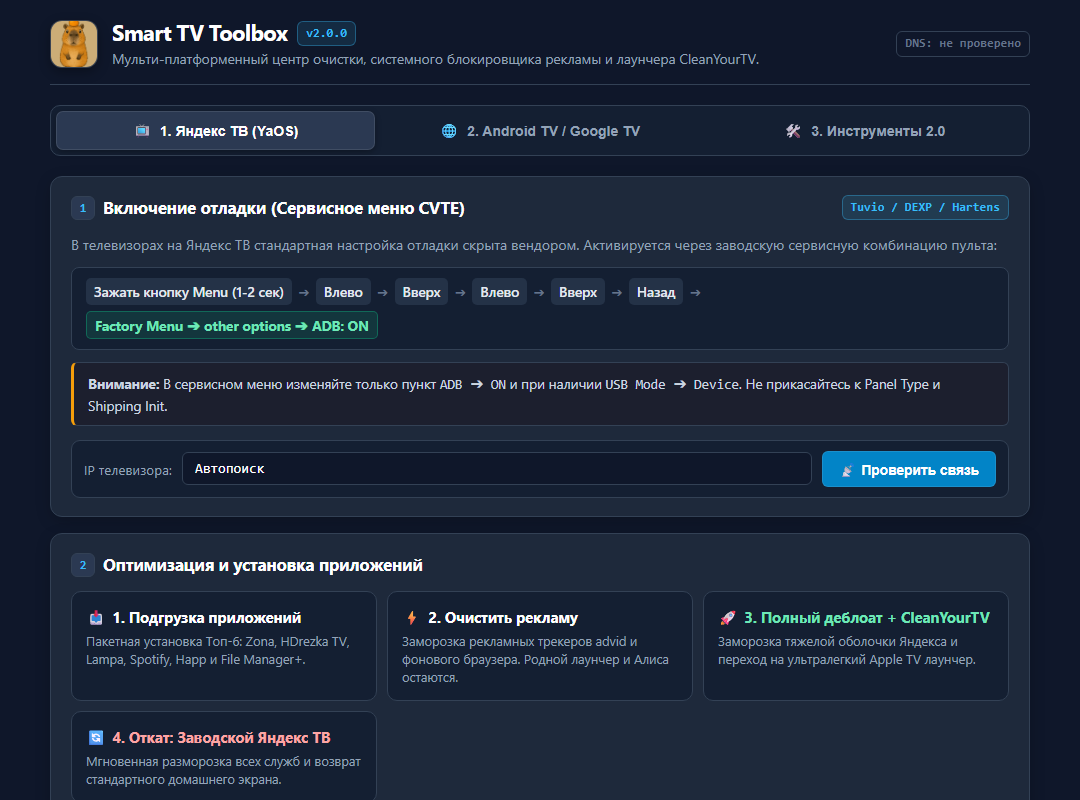
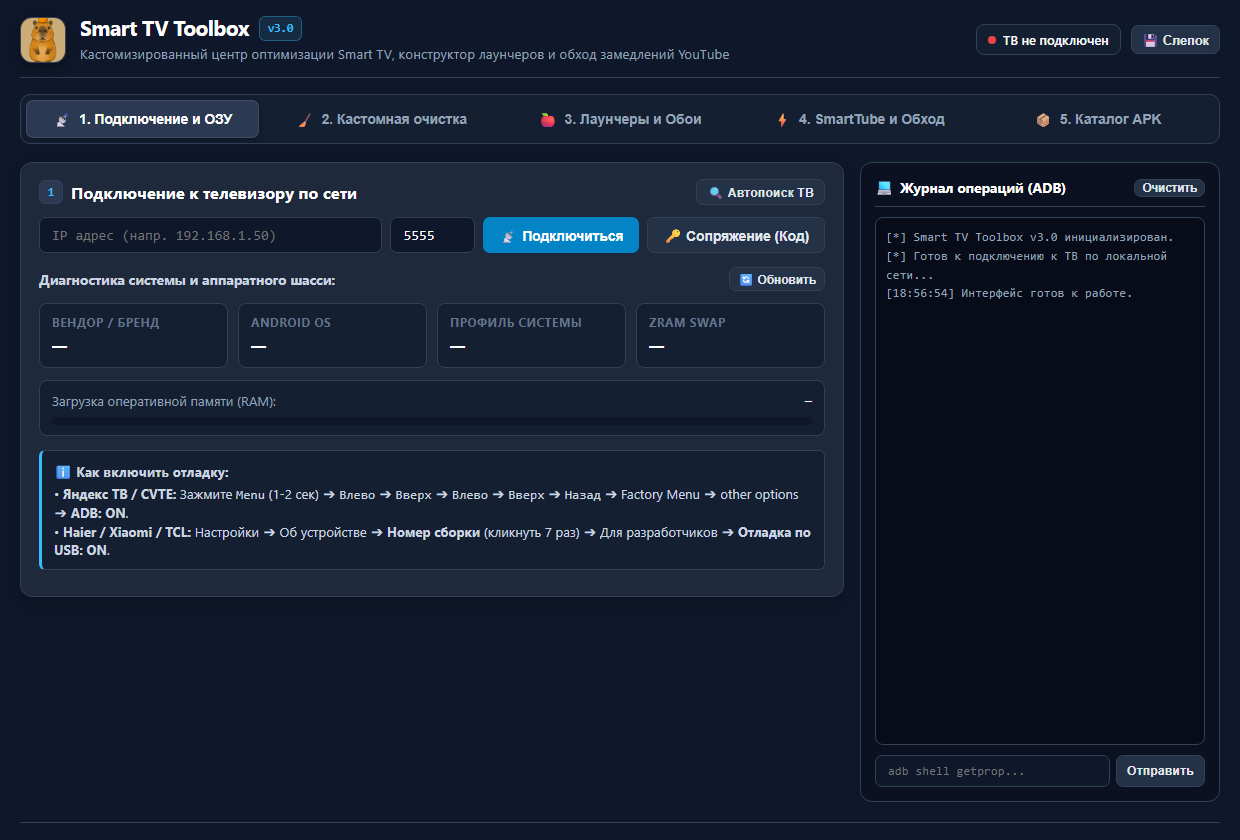
docs: add screenshots for all TV launchers (Moy-TV, CleanYourTV, FLauncher, YaOS) and v3.0 showcase

diff --git a/README.md b/README.md
@@ -1,10 +1,10 @@
 <div align="center">
 
-<img src="img/banner_header.png" alt="Smart TV Toolbox v3.0" width="100%">
+<img src="img/banner_header%20v3.0.jpg" alt="Smart TV Toolbox v3.0" width="100%">
 
 <br/><br/>
 
-[![Версия](https://img.shields.io/badge/Версия-v3.0.0-0284c7?style=for-the-badge&logo=github&logoColor=white)](https://github.com/pururuall/SmartTV-Toolbox/releases/latest)
+[![Версия](https://img.shields.io/badge/Версия-v3.0.0_Major-6366f1?style=for-the-badge&logo=github&logoColor=white)](https://github.com/pururuall/SmartTV-Toolbox/releases/latest)
 [![Скачать SmartTV_Control.exe](https://img.shields.io/badge/СКАЧАТЬ_SmartTV__Control.exe-22c55e?style=for-the-badge&logo=windows&logoColor=white)](https://github.com/pururuall/SmartTV-Toolbox/releases/latest/download/SmartTV_Control.exe)
 [![Скачать весь ZIP](https://img.shields.io/badge/СКАЧАТЬ_ВЕСЬ_РЕПОЗИТОРИЙ-(ZIP)-3b82f6?style=for-the-badge&logo=github&logoColor=white)](https://github.com/pururuall/SmartTV-Toolbox/archive/refs/heads/main.zip)
 
@@ -18,7 +18,48 @@
 
 ---
 
-Комплект скриптов, утилит и официальное приложение **SmartTV_Control.exe** (версия **3.0.0**) для глубокой очистки, ускорения, тонкой настройки лаунчеров и обхода замедлений YouTube на любых Smart TV под управлением Android 9–14: **Яндекс ТВ (YaOS)** (Tuvio, Hartens, DEXP, Novex, Hi), **Салют ТВ (StarOS / SberBox)**, **Haier** (MatrixTV / uSmart), **Xiaomi / Redmi** (PatchWall), **TCL / iFFALCON** и стандартных **Android TV / Google TV**.
+Комплект скриптов, утилит и официальное приложение **SmartTV_Control.exe** (версия **3.0.0**) для глубокой очистки, ускорения, тонкой настройки лаунчеров и обхода замедлений YouTube на любых Smart TV под управлением Android 9–14: **Яндекс ТВ (YaOS / CVTE)** (Tuvio, Hartens, DEXP, Novex, Hi), **Салют ТВ (StarOS / SberBox)**, **Haier** (MatrixTV / uSmart), **Xiaomi / Redmi** (PatchWall), **TCL / iFFALCON** и стандартных **Android TV / Google TV**.
+
+---
+
+## 📸 Скриншоты и демонстрация работы
+
+<div align="center">
+
+### 🖥 Интерфейс приложения Smart TV Toolbox v3.0
+*(5 вкладок, диагностика ОЗУ, попакетный конструктор деблоата и Live ADB-терминал)*
+
+<img src="img/app_showcase.png" alt="Интерфейс программы Smart TV Toolbox v3.0" width="94%">
+
+<br/><br/>
+
+### 📺 1. Лаунчер CleanYourTV (Apple TV Style)
+*(Ультралегкий домашний экран ~500 КБ с настраиваемым доком Топ-6 приложений и нулевой рекламой)*
+
+<img src="img/tv_home_clean.png" alt="Лаунчер CleanYourTV на экране телевизора" width="94%">
+
+<br/><br/>
+
+### 📺 2. Лаунчер «Мой ТВ» (Moy-TV)
+*(Информационный дашборд с виджетами погоды, курсов валют ЦБ РФ, новостей, ярлыками HDMI 1–3 и веб-пультом)*
+
+<img src="img/moytv_screen.png" alt="Лаунчер Мой ТВ на экране телевизора" width="94%">
+
+<br/><br/>
+
+### 📺 3. Лаунчер FLauncher
+*(Классический Open-Source лаунчер под Android TV с настраиваемыми категориями и сеткой)*
+
+<img src="img/flauncher_screen.png" alt="Лаунчер FLauncher на экране телевизора" width="94%">
+
+<br/><br/>
+
+### 📺 4. Заводской интерфейс Яндекс ТВ (YaOS) до оптимизации
+*(Для сравнения: тяжелая витрина с рекламой, промо-каруселями и фоновыми службами телеметрии)*
+
+<img src="img/yaos_home_screen.png" alt="Заводской экран Яндекс ТВ до очистки" width="94%">
+
+</div>
 
 ---
 
@@ -73,6 +114,7 @@
 | `main_webview.py` | 🖥 Нативный графический интерфейс на WebView2 |
 | `server.py` | 🌐 Локальный HTTP-сервер (строго `127.0.0.1`) для запуска через браузер |
 | `platform-tools/` | Официальные утилиты ADB от Google под Windows |
+| `img/` | Баннеры и скриншоты приложения и всех поддерживаемых лаунчеров |
 
 ---
 
